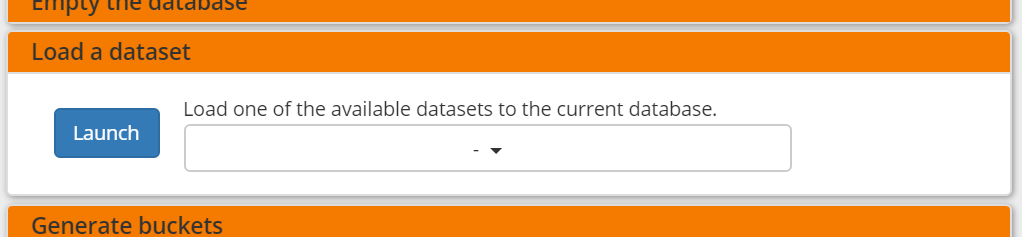
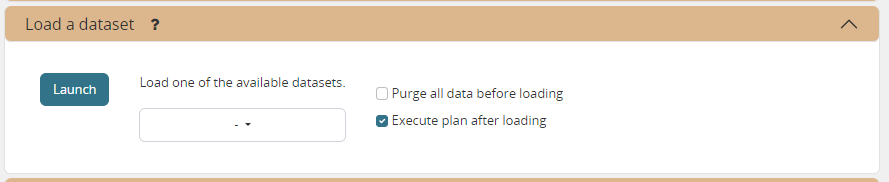
load-a-dataset command now allows emptying the database before loading

diff --git a/freppledb/execute/templates/commands/loaddata.html b/freppledb/execute/templates/commands/loaddata.html
@@ -22,15 +22,20 @@
       </div>
     </td>
     <td style="padding:15px">
+      <div class="mb-2">
+        <input class="form-check-input" type="checkbox" id="loaddatacb2" onclick="checkbox_changed(this, '#emptyvar')" />
+        <label for="loaddatacb2">{% trans "Purge all data before loading" %}</label>
+      </div>
       <div>
-        <input class="form-check-input" type="checkbox" id="loaddatacb1" onclick="checkbox_changed(this)" checked />
-        <label for="loaddatacb1">{% trans "Execute plan after loading is done" %}</label>
+        <input class="form-check-input" type="checkbox" id="loaddatacb1" onclick="checkbox_changed(this, '#regeneratevar')" checked />
+        <label for="loaddatacb1">{% trans "Execute plan after loading" %}</label>
       </div>
     </td>
   </tr>
 </table>
 <input type="hidden" name="fixture" id="loaddatafile" value="">
 <input type="hidden" name="regenerateplan" id="regeneratevar" value="true">
+<input type="hidden" name="emptybefore" id="emptyvar" value="false">
 </form>
 <script>
 $(function() {
@@ -39,8 +44,8 @@ $(function() {
     $("#loaddatafile").val($(this).text());
   });
 });
-function checkbox_changed(checkbox) {
-  $("#regeneratevar").val(checkbox.checked);
+function checkbox_changed(checkbox, slctr) {
+  $(slctr).val(checkbox.checked);
 };
 </script>
 {% else %}

diff --git a/freppledb/execute/views.py b/freppledb/execute/views.py
@@ -455,6 +455,19 @@ def wrapTask(request, action):
     elif action == "loaddata":
         if not request.user.has_perm("auth.run_db"):
             raise Exception("Missing execution privileges")
+
+        # Step 1: optionally empty the database
+        if args.get("emptybefore", False) == "true":
+            task = Task(
+                name="empty",
+                submitted=now,
+                status="Waiting",
+                user=request.user,
+                arguments="--all",
+            )
+            task.save(using=request.database)
+
+        # Step 2: load the fixture
         task = Task(
             name="loaddata",
             submitted=now,
@@ -463,7 +476,8 @@ def wrapTask(request, action):
             arguments=args["fixture"],
         )
         task.save(using=request.database)
-        # Also run the workflow upon loading of manufacturing_demo or distribution_demo
+
+        # Step 3: optionally run the plan
         if args.get("regenerateplan", False) == "true":
             active_modules = "supply"
             if "freppledb.forecast" in settings.INSTALLED_APPS:

diff --git a/doc/command-reference.rst b/doc/command-reference.rst
@@ -619,9 +619,11 @@ Load a dataset in the database
 A number of demo datasets are packaged with frePPLe. Using this action you can
 load one of those in the database.
 
-The dataset is loaded incrementally in the database, **without** erasing any
-previous data. In most cases you'll want to erase the data before loading any
-of these datasets.
+By default, the dataset is loaded incrementally in the database, **without** erasing any
+previous data. A checkbox allows you to purge any existing data before loading
+the dataset.
+
+Another checkbox allows you to generate a plan after loading the dataset.
 
 You can use the dumpdata command to export a model to the appropriate format
 and create your own predefined datasets.
